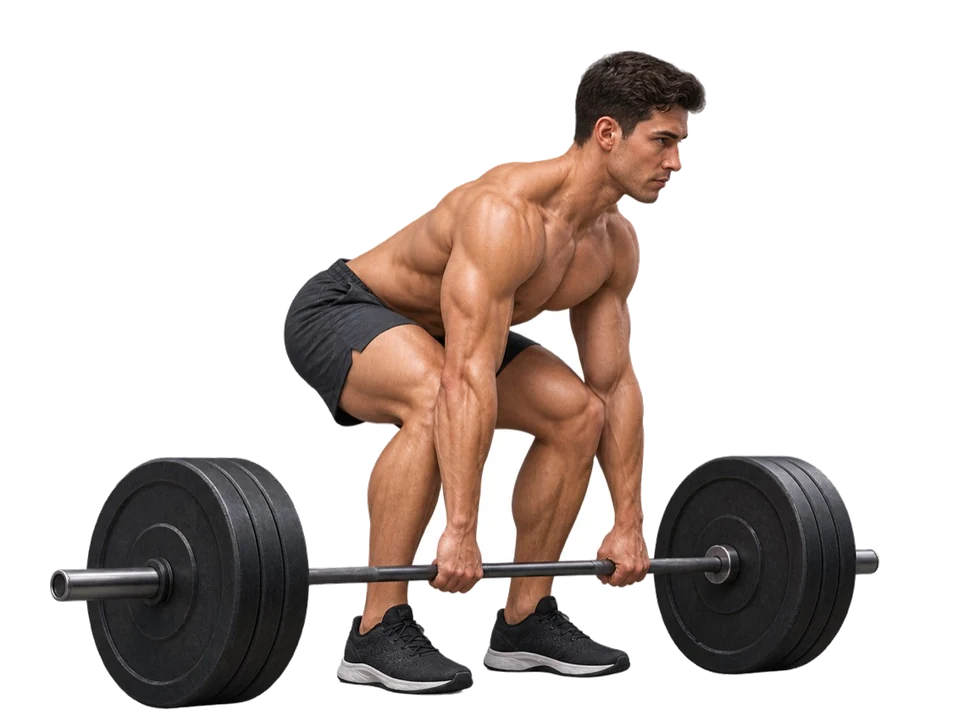
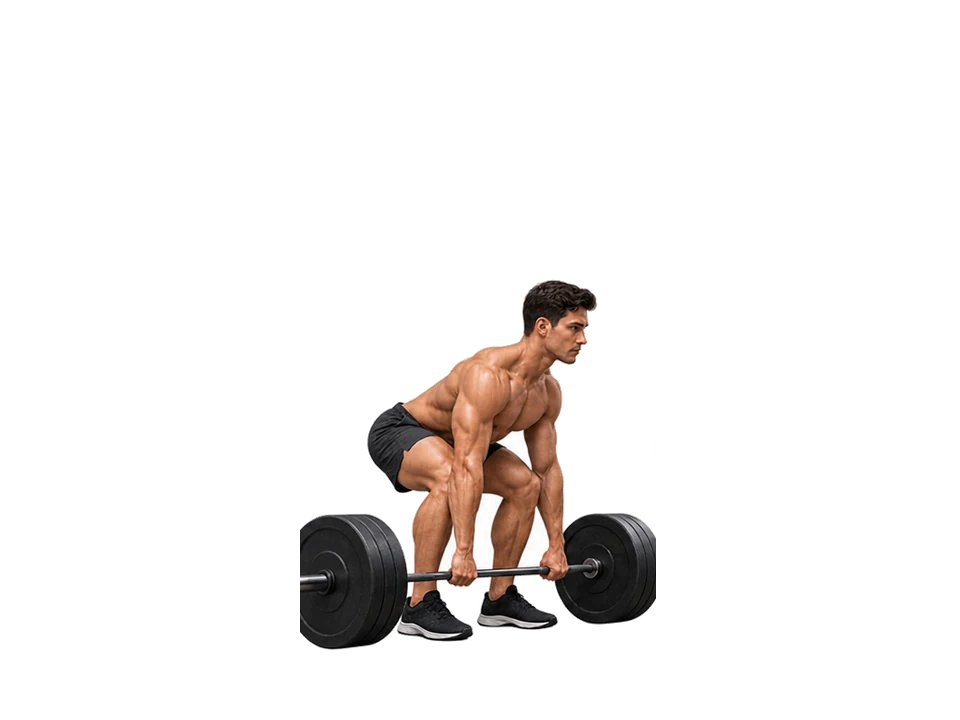
fix(illustration): replace final deadlift and bench assets

diff --git a/scripts/prepare-real-athlete-v43-final.js b/scripts/prepare-real-athlete-v43-final.js
@@ -1,0 +1,105 @@
+"use strict";
+
+const fs = require("fs");
+const path = require("path");
+const sharp = require("sharp");
+const {
+  ROOT,
+  ASSET_ROOT,
+  REVIEW_ROOT,
+  CANVAS,
+  normalizeFrame,
+  contactSheet
+} = require("./prepare-real-athlete-v43");
+
+const VERSION = "20260814-real-athlete-v43-final-assets";
+const DEADLIFT_DIRECTORY = path.join(ASSET_ROOT, "deadlift", "final-source");
+const DEADLIFT_SHEET = path.join(DEADLIFT_DIRECTORY, "deadlift-motion-sheet.png");
+const BENCH_DIRECTORY = path.join(ASSET_ROOT, "bench", "final-source");
+const MANIFEST_PATH = path.join(ASSET_ROOT, "manifest.json");
+
+const DEADLIFT_FRAMES = Object.freeze([
+  { file: "frame-01.png", semantic: "setup", width: 360, x: 300, bottom: 720 },
+  { file: "frame-02.png", semantic: "early-pull", width: 360, x: 300, bottom: 720 },
+  { file: "frame-03.png", semantic: "lockout", width: 360, x: 300, bottom: 720 },
+  { file: "frame-04.png", semantic: "controlled-descent", width: 360, x: 300, bottom: 720 },
+  { file: "frame-05.png", semantic: "return-to-setup", width: 360, x: 300, bottom: 720 }
+]);
+
+async function splitDeadliftSheet() {
+  const metadata = await sharp(DEADLIFT_SHEET).metadata();
+  if (!metadata.width || !metadata.height) throw new Error("Deadlift motion sheet dimensions are unavailable");
+  const frames = [];
+  for (let index = 0; index < DEADLIFT_FRAMES.length; index += 1) {
+    const left = Math.floor(index * metadata.width / DEADLIFT_FRAMES.length);
+    const right = Math.floor((index + 1) * metadata.width / DEADLIFT_FRAMES.length);
+    const output = path.join(DEADLIFT_DIRECTORY, DEADLIFT_FRAMES[index].file);
+    await sharp(DEADLIFT_SHEET)
+      .extract({ left, top: 0, width: right - left, height: metadata.height })
+      .png()
+      .toFile(output);
+    frames.push({ file: DEADLIFT_FRAMES[index].file, left, right, width: right - left, height: metadata.height, bytes: fs.statSync(output).size });
+  }
+  return { width: metadata.width, height: metadata.height, bytes: fs.statSync(DEADLIFT_SHEET).size, frames };
+}
+
+async function main() {
+  fs.mkdirSync(REVIEW_ROOT, { recursive: true });
+  const previous = JSON.parse(fs.readFileSync(MANIFEST_PATH, "utf8"));
+  const sheet = await splitDeadliftSheet();
+  const deadliftFrames = [];
+  for (let index = 0; index < DEADLIFT_FRAMES.length; index += 1) {
+    deadliftFrames.push(await normalizeFrame("deadlift", DEADLIFT_FRAMES[index], index, {
+      sourceDirectory: "final-source",
+      preserveFullFrame: true,
+      edgeInsetX: 2
+    }));
+  }
+
+  const correctedBench = await normalizeFrame("bench", {
+    file: "frame-03.png",
+    semantic: "bottom-lower-mid-chest",
+    width: 920,
+    x: 20,
+    bottom: 704
+  }, 2, { sourceDirectory: "final-source" });
+  const benchFrames = previous.scenes.bench.frames.map((frame, index) => index === 2 ? correctedBench : frame);
+
+  const deadliftContactSheet = await contactSheet("deadlift", "#203a9c", deadliftFrames.length, "deadlift-final-5-frame-contact-sheet.png");
+  const benchContactSheet = await contactSheet("bench", "#4b338f", benchFrames.length, "bench-final-contact-sheet.png");
+
+  const manifest = {
+    ...previous,
+    version: VERSION,
+    generatedAt: new Date().toISOString(),
+    scenes: {
+      ...previous.scenes,
+      deadlift: {
+        frames: deadliftFrames,
+        motionSheetSource: path.relative(ROOT, DEADLIFT_SHEET).replaceAll("\\", "/"),
+        motionSheetSourceDimensions: { width: sheet.width, height: sheet.height },
+        motionSheetSourceBytes: sheet.bytes,
+        splitFrames: sheet.frames,
+        splitSourceBytes: sheet.frames.reduce((sum, frame) => sum + frame.bytes, 0),
+        normalizedBytes: deadliftFrames.reduce((sum, frame) => sum + frame.normalizedBytes, 0),
+        contactSheet: path.relative(ROOT, deadliftContactSheet).replaceAll("\\", "/")
+      },
+      bench: {
+        ...previous.scenes.bench,
+        frames: benchFrames,
+        correctedFrameSource: path.relative(ROOT, path.join(BENCH_DIRECTORY, "frame-03.png")).replaceAll("\\", "/"),
+        correctedFrameSourceBytes: fs.statSync(path.join(BENCH_DIRECTORY, "frame-03.png")).size,
+        sourceBytes: benchFrames.reduce((sum, frame) => sum + frame.sourceBytes, 0),
+        normalizedBytes: benchFrames.reduce((sum, frame) => sum + frame.normalizedBytes, 0),
+        contactSheet: path.relative(ROOT, benchContactSheet).replaceAll("\\", "/")
+      }
+    }
+  };
+  fs.writeFileSync(MANIFEST_PATH, `${JSON.stringify(manifest, null, 2)}\n`);
+  process.stdout.write(`${JSON.stringify(manifest, null, 2)}\n`);
+}
+
+main().catch((error) => {
+  console.error(error);
+  process.exitCode = 1;
+});

diff --git a/scripts/prepare-real-athlete-v43.js b/scripts/prepare-real-athlete-v43.js
@@ -157,11 +157,25 @@ async function alphaBounds(input) {
   return { left, top, width: right - left + 1, height: bottom - top + 1 };
 }
 
-async function normalizeFrame(sceneName, frame, index) {
-  const source = path.join(ASSET_ROOT, sceneName, "source", frame.file);
+async function normalizeFrame(sceneName, frame, index, options = {}) {
+  const sourceDirectory = options.sourceDirectory || "source";
+  const outputDirectory = options.outputDirectory || "normalized";
+  const source = path.join(ASSET_ROOT, sceneName, sourceDirectory, frame.file);
   const keyed = await removeConnectedWhiteBackground(source);
-  const bounds = await alphaBounds(keyed);
-  const subject = sharp(keyed).extract(bounds);
+  const keyedMeta = await sharp(keyed).metadata();
+  const edgeInsetX = options.preserveFullFrame ? Math.max(0, options.edgeInsetX || 0) : 0;
+  const edgeInsetY = options.preserveFullFrame ? Math.max(0, options.edgeInsetY || 0) : 0;
+  const bounds = options.preserveFullFrame
+    ? {
+      left: edgeInsetX,
+      top: edgeInsetY,
+      width: keyedMeta.width - edgeInsetX * 2,
+      height: keyedMeta.height - edgeInsetY * 2
+    }
+    : await alphaBounds(keyed);
+  const subject = options.preserveFullFrame && edgeInsetX === 0 && edgeInsetY === 0
+    ? sharp(keyed)
+    : sharp(keyed).extract(bounds);
   const resize = frame.width
     ? { width: frame.width, height: CANVAS.height }
     : { width: CANVAS.width, height: frame.height };
@@ -173,7 +187,8 @@ async function normalizeFrame(sceneName, frame, index) {
     create: { width: CANVAS.width, height: CANVAS.height, channels: 4, background: { r: 0, g: 0, b: 0, alpha: 0 } }
   }).composite([{ input: resized, left, top }]).webp({ quality: 88, alphaQuality: 100, effort: 6 }).toBuffer();
   const outputName = `frame-${String(index + 1).padStart(2, "0")}.webp`;
-  const output = path.join(ASSET_ROOT, sceneName, "normalized", outputName);
+  const output = path.join(ASSET_ROOT, sceneName, outputDirectory, outputName);
+  fs.mkdirSync(path.dirname(output), { recursive: true });
   fs.writeFileSync(output, canvas);
   return {
     file: outputName,
@@ -185,7 +200,7 @@ async function normalizeFrame(sceneName, frame, index) {
   };
 }
 
-async function contactSheet(sceneName, surface, frameCount) {
+async function contactSheet(sceneName, surface, frameCount, outputName = `${sceneName}-normalized-contact-sheet.png`) {
   const columns = Math.min(4, frameCount);
   const rows = Math.ceil(frameCount / columns);
   const cellWidth = 480;
@@ -205,7 +220,7 @@ async function contactSheet(sceneName, surface, frameCount) {
       top: gap + Math.floor(index / columns) * (cellHeight + gap)
     });
   }
-  const output = path.join(REVIEW_ROOT, `${sceneName}-normalized-contact-sheet.png`);
+  const output = path.join(REVIEW_ROOT, outputName);
   await sharp({ create: { width, height, channels: 4, background: "#101420" } }).composite(composites).png().toFile(output);
   return output;
 }
@@ -234,7 +249,20 @@ async function main() {
   process.stdout.write(`${JSON.stringify(manifest, null, 2)}\n`);
 }
 
-main().catch((error) => {
-  console.error(error);
-  process.exitCode = 1;
+if (require.main === module) {
+  main().catch((error) => {
+    console.error(error);
+    process.exitCode = 1;
+  });
+}
+
+module.exports = Object.freeze({
+  ROOT,
+  ASSET_ROOT,
+  REVIEW_ROOT,
+  CANVAS,
+  removeConnectedWhiteBackground,
+  alphaBounds,
+  normalizeFrame,
+  contactSheet
 });
